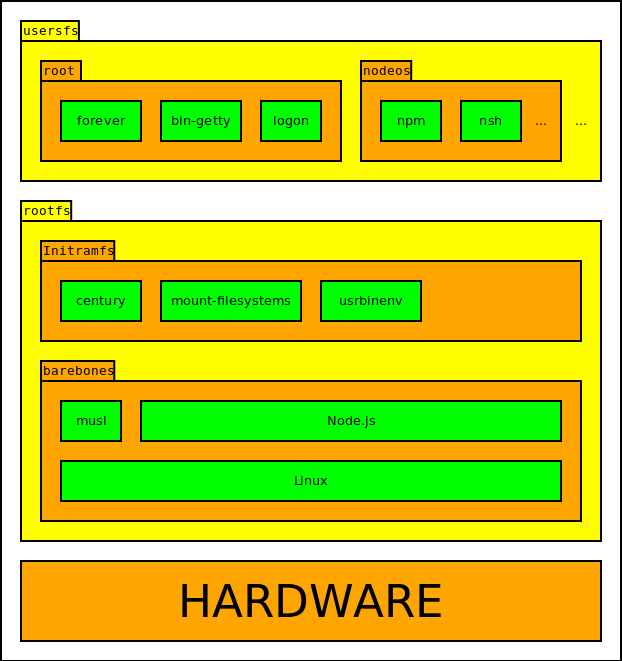
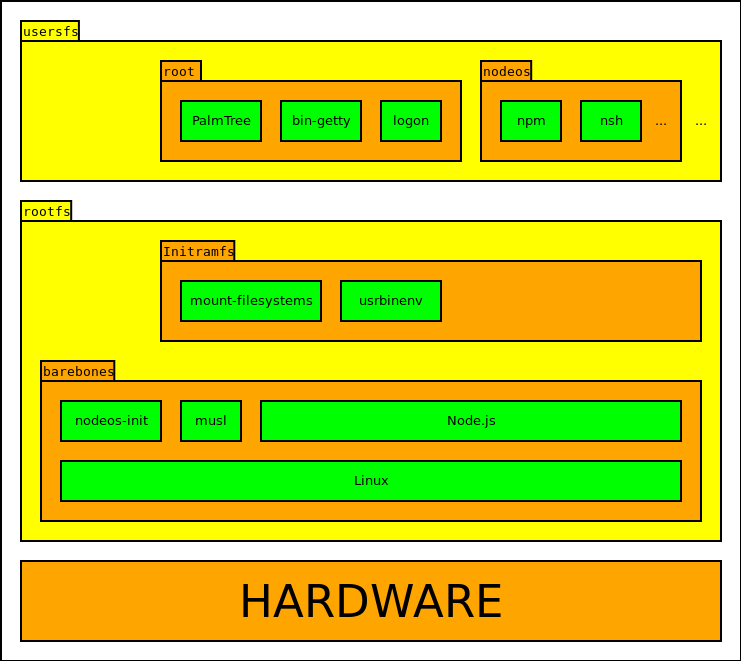
Revisados `especificación` y `diseño`, especialmente interfaz HTML5

diff --git a/5. descripción informática/1. Especificación.md b/5. descripción informática/1. Especificación.md
@@ -4,8 +4,8 @@ La estructura de NodeOS se ha hecho centrándose en los conceptos de simplicidad
 seguridad, fácil comprensión del sistema, eliminación de cualquier elemento
 superfluo no necesario para la ejecución de aplicaciones de Node.js y,
 en su defecto, su sustitución por alternativas escritas en Javascript, en
-algunos casos teniendo que implementarlas desde cero al no haber ninguna hecha
-previamente, como el caso de
+algunos casos teniendo que implementarlas completamente al no haber ningun
+equivalente hecho previamente, como el caso de
 [century](../8. apéndices/1. colaboraciones con proyectos externos/node-century.html)
 y [usrbinenv](3. Implementación/7. módulos propios/usrbinenv.html).
 
@@ -31,28 +31,34 @@ instalación a otro equipo o aislar los problemas debidos a malas configuracione
 
 El uso de estándares web y W3C y de convenciones ya establecidas permite el uso
 de módulos ya existentes y probados, pero igualmente el poder hacer uso de unas
-especificaciones definidas evita cometer errores de diseño que ya
-han sido resueltos con anterioridad y permite sustituir unos módulos por otros
+especificaciones definidas evita cometer errores de diseño que ya han sido
+resueltos con anterioridad y permite sustituir unos módulos por otros
 compatibles o crearlos de forma que sean fácilmente utilizables en otros
-sistemas. Este es el caso del uso del gestor de paquetes npm propio
-de Node.js en lugar de [npkg](http://npkg.org), creado específicamente para
-NodeOS (y ya deprecado), que permite el uso de una herramienta
+sistemas. Este es el caso del uso del gestor de paquetes npm propio de Node.js
+en lugar de [npkg](http://npkg.org), creado específicamente para NodeOS (y que
+actualmente está fuera de uso), que permite el uso de una herramienta
 constantemente en desarrollo, y con un mantenimiento continuado, que además los
-usuarios ya estas acostumbrados a usar, o el uso de un servidor HTTP/WebDAV para
-el acceso a los archivos por parte de las aplicaciones gráficas en lugar de la
-creación de un protocolo propio, permitiendo que pueda accederse a los mismos
-desde otros sistemas operativos o reutilizarse aplicaciones ya existentes sin
-apenas modificaciones.
+usuarios ya estas acostumbrados a usar. Otro ejemplo de la promoción del uso de
+estandares en NodeOS, como se detallará mas adelante, es el uso de un servidor
+HTTP/WebDAV para el acceso a los archivos por parte de las aplicaciones gráficas
+basadas en HTML5 en lugar de la creación de un protocolo propio, permitiendo que
+puedan utilizarse aplicaciones ya existentes para acceder a los mismos, o
+incluso almacenarlos en servidores externos que soporten dicho estandar de forma
+transparente para el usuario.
 
 ### Sistema de archivos raíz único para cada usuario
 
 Una característica de NodeOS que lo distingue de los demás sistemas operativos
 es que cada usuario posee su propio sistema de archivos raíz independiente y
 aislado del resto de usuarios, haciendo un sistema más seguro al hacer que los
-usuarios solo puedan acceder a sus propios archivos. Está en parte
-inspirada en el sistema operativo Plan9 y en cómo trabaja con los namespaces de
-procesos y la unión de directorios (`bind`), pero no se tiene constancia de ningún
-otro sistema con un comportamiento similar al ofrecido por NodeOS.
+usuarios solo puedan acceder a sus propios archivos. Está en parte inspirada en
+el sistema operativo Plan9 y en cómo trabaja con los namespaces de procesos y la
+unión de directorios (`bind`), y a pesar de que se hace uso de tecnologias ya
+existentes previamente como las jaulas `chroot` (al igual que otras relacionadas
+como las jaulas `jail` de BSD o los contenedores LXC) y por tanto podría
+aplicarse la misma técnica en otros sistemas operativos, no se tiene constancia
+de que exista alguno que ofrezca un comportamiento similar por defecto, y
+especialmente combinado con el uso de `OverlayFS`.
 
 Este mecanismo permite que los usuarios tengan una visión más sencilla y
 flexible del sistema, al ofrecerles la apariencia de estar usando un sistema
@@ -60,23 +66,26 @@ operativo mono-usuario (al estilo de como funcionaban
 [MacOS Classic](https://es.wikipedia.org/wiki/Historia_de_Mac_OS) o
 [Windows 9x](https://es.wikipedia.org/wiki/Windows_9x)), donde tienen capacidad
 de modificar y configurarlo todo, sin riesgo de afectar al sistema o a los demás
-usuarios ya que todos sus cambios quedan recluidos en su propio directorio, haciendo que el sistema sea más resiliente y estable. En este sentido,
-no se necesitan permisos de administrador para instalar módulos globalmente ni
-tener que configurar nada para poder hacerlo ya que se pueden utilizar las
-ubicaciones globales que se usan por defecto, estanado usando realmente
-en su lugar el directorio del propio usuario.
+usuarios ya que todos sus cambios quedan recluidos en su propio directorio,
+haciendo que el sistema sea más resiliente y estable. En este sentido, no se
+necesitan permisos de administrador para instalar módulos de Node.js globalmente
+ni tener que configurarlo para poder habilitar esta funcionalidad, ya que se
+pueden utilizar las ubicaciones globales usadas por defecto por Node.js,
+mientras que se están alojando realmente los archivos en el directorio del
+propio usuario.
 
 Esta impresión que se le da al usuario está reforzada por el hecho de que cada
 uno tiene su propio directorio de archivos temporales (su propia instancia del
 sistema de archivos *tmpfs*) y que estos pueden acceder directamente al sistema
 de archivos *procfs* y a los dispositivos del sistema (*devtmpfs*) de forma
-similar a como podría hacer un usuario administrador en un sistema operativo
-Unix tradicional. No obstante, por seguridad y estabilidad dicho acceso esta
-limitado, de forma que en el sistema de archivos *procfs* solo se pueda acceder
-a la información de los procesos del propio usuario, y de forma similar solo se
+similar a como podría hacerlo un usuario administrador en un sistema operativo
+Unix tradicional. No obstante, por seguridad y estabilidad, dicho acceso esta
+limitado, de forma que en el sistema de archivos *procfs* sólo se pueda acceder
+a la información de los procesos del propio usuario, y de forma similar sólo se
 puede acceder a los dispositivos del sistema que no estén siendo usados por otro
-usuario en ese mismo momento mediante el uso del sistema de archivos
-[ExclFS](3. Implementación/7. módulos propios/ExclFS.html).
+usuario en ese mismo momento, esto último gracias al uso del sistema de archivos
+[ExclFS](3. Implementación/7. módulos propios/ExclFS.html) creado específicamente
+para NodeOS y que se explicará su funcionamiento con más detalle más adelante.
 
 ![Sesión de NodeOS mostrando la salida del comando `pstree` y el contenido de `/proc`. Se puede observar que los únicos procesos que se muestran son los correspondientes al usuario. En caso de que hubiera ejecutado algún servicio durante el arranque o que tuviera una sesión gráfica activa, `pstree` mostraría varios arboles de procesos puesto que serian ejecutados por otros procesos propiedad del usuario `root`.](img/Sesión de NodeOS mostrando la salida del comando `pstree` y el contenido de `proc`.png)
 
@@ -85,10 +94,12 @@ usuario en ese mismo momento mediante el uso del sistema de archivos
 En NodeOS no hay usuarios con permisos de administrador, siendo todos usuarios
 normales. El superusuario *root* solo es necesario durante el proceso de
 arranque para inicializar el sistema, montar la partición de los usuarios y
-ejecutar servicios disponibles globalmente como
-[logon](3. Implementación/7. módulos propios/logon.html), no habiendo en el
-sistema ningún otro proceso ejecutandose con permisos de administrador para
-disminuir las posibilidades de que se pueda producir un escalado de privilegios.
+ejecutar servicios disponibles globalmente como la autenticación de los usuarios
+mediante el uso de [logon](3. Implementación/7. módulos propios/logon.html) (el
+cual obtiene la información de acceso del directorio de cada usuario), no
+habiendo en el sistema ningún otro proceso ejecutandose con permisos de
+administrador para disminuir las posibilidades de que se pueda producir un
+escalado de privilegios.
 
 Éste sistema de seguridad puede plantear algunos problemas de administración
 cuando se trata de recursos comunes a todos los usuarios o la ejecución de
@@ -105,12 +116,21 @@ implementarse dicho mecanismo, haciendo que el comportamiento esperado sea que
 Esto obliga a los desarrolladores a que sean conscientes de éste hecho de forma
 que a la hora de diseñar sus programas tomen las medidas adecuadas para
 garantizar de forma conveniente la integridad de sus datos (por ejemplo
-diseñándolas sin estado o para que usen transacciones), lo cual además es acorde
+diseñándolas sin estado, usando transacciones o comprobando la validad de los
+datos en el arranque y la ejecución de la aplicación), lo cual además es acorde
 a la filosofía original del sistema UNIX (del que derivan Linux y OSX) ya que
 [no se hizo para ser apagado](http://www.tldp.org/LDP/intro-linux/html/sect_04_02.html#sect_04_02_06).
 Además, de forma colateral esto repercute haciendo que dichas aplicaciones sean
-mas resilientes incluso cuando se ejecuten sobre Node.js en un sistema operativo
-normal ya que dicho diseño es independiente del sistema donde vaya a ejecutarse.
+mas resilientes incluso cuando se ejecuten en otros sistemas operativos ya que
+dicho diseño es independiente del sistema donde vaya a ejecutarse. De forma
+alternativa, en caso de tener acceso físico a la máquina donde esté ejecutandose
+es posible usar la combinación de teclas `Ctrl+Alt+Del` (empleada por defecto
+por el kernel para reiniciar el sistema), la cual es capturada por
+[nodeos-init](3. Implementación/7. módulos propios/nodeos-init.html) para emitir
+la señal `SIGINT` a todos los procesos de forma que estos puedan terminar de
+forma ordenada y después escribir los datos alojados en la cache de los discos
+duros, garantizando de esta forma la coherencia de los mismos y produciendo un
+apagado limpio del sistema.
 
 ### Simplicidad de uso
 
@@ -145,24 +165,18 @@ NodeOS esta principalmente orientado a servidores en la nube y sistemas
 embebidos, pero suelen aparecer periódicamente dudas y sugerencias al respecto
 de una posible interfaz gráfica, por lo que aunque no este incluida por defecto
 en el sistema básico, si que se ha planteado darle un apoyo oficial a las
-distintas iniciativas.
+distintas iniciativas para guiar el desarrollo uniforme de las mismas.
 
 Para los sistemas embebidos y dedicados puede ser suficiente con el empleo del
 dispositivo de framebuffer de Linux mediante el uso del módulo
 [node-canvas](../8. apéndices/1. colaboraciones con proyectos externos/node-canvas.html),
 pero para la creación de interfaces mas complejas como es la creación de un
-entorno de escritorio, la solución obvia es el uso de HTML5 y tecnologías web
+entorno de escritorio, la solución obvia es el uso de HTML5. La incorporación de
+esta última no está completamente testeada y se ha planteado como una
+[futura mejora](../6. conclusiones/3. Posibles trabajos futuros.html), pero sí
+se han implementado algunos de los componentes necesarios para la misma y ya
+estan incluidos en el sistema. En este sentido, se hace uso de tecnologías web
 como son [WebDAV](http://www.webdav.org) para el acceso a los archivos o
 [WebSockets](https://tools.ietf.org/html/rfc6455) para las shell interactivas y
 la actualización de datos en la interfaz gráfica en tiempo real, tal y como
-proponen algunos frameworks web como [Meteor](https://www.meteor.com). En este
-sentido, se ha propuesto el que se aisle completamente la interfaz gráfica de
-las APIs ofrecidas por Node.js usándose un servidor web *ad-hoc* en caso de
-tener que hacer uso de estas, a diferencia de otras alternativas similares como
-[nw.js](http://nwjs.io) o [electron](http://electron.atom.io) (usado internamente
-por el editor [Atom](https://atom.io)), o el diseño de una API propia. De esta forma, no solo
-permite que se pueda ejecutar dicha interfaz gráfica en cualquier navegador web
-estándar permitiendo que pueda ser usada tanto en local como en remoto de forma
-transparente, sino que además reduce el consumo de recursos en el servidor al
-promover que se realicen todas las operaciones que sean posibles en el lado del
-cliente.
+proponen algunos frameworks web como [Meteor](https://www.meteor.com).

diff --git a/5. descripción informática/2. Diseño.md b/5. descripción informática/2. Diseño.md
@@ -8,19 +8,38 @@ El sistema esta organizado en capas, correspondiente cada una de ellas a un
 módulo npm independiente siguiendo la filosofía de diseño modular que promueve
 la comunidad de Node.js, y su división sigue el diseño de la organización
 original del proyecto basada en la arquitectura de contenedores de Docker, a la
-cual he revisado el ámbito correspondiente a cada una. Dichas capas son:
+cual se ha revisado el ámbito correspondiente a cada una. Dichas capas son:
 
 * [barebones](3. Implementación/2. barebones.html), encargada de un arranque
-  mínimo del sistema, mostrando directamente el interprete REPL de Node.js.
+  mínimo del sistema, mostrando directamente el interprete REPL de Node.js. Está
+  formada solamente por el kernel de Linux, al que se le ha añadido un `initrd`
+  que será usado posteriormente como sistema de archivos raíz común para todos
+  los usuarios y que contiene a `musl` como libreria C estandar del sistema,
+  [nodeos-init](3. Implementación/7. módulos propios/nodeos-init.html) para
+  gestionar los procesos zombie y el apagado correcto de la máquina y el montaje
+  del sistema de archivos *devtmpfs*, y el binario ejecutable de Node.js.
 * [initramfs](3. Implementación/3. initramfs.html), monta la partición con los
   directorios de los usuarios y ejecuta una preparación previa del sistema.
+  Consiste en un archivo `initramfs` independiente (a diferencia del `initrd`
+  incluido en el kernel de Linux) que contiene los módulos
+  [nodeos-mount-filesystems](3. Implementación/7. módulos propios/nodeos-mount-filesystems.html)
+  y [usrbinenv](3. Implementación/7. módulos propios/usrbinenv.html), este
+  último proporcionando una implementación en Javascript del ejecutable
+  `/usr/bin/env`, empleado habitualmente en el *shebang* de los scripts
+  ejecutables para indicar el programa interprete que puede procesarlos.
 * [rootfs](3. Implementación/4. rootfs.html), genera una partición de arranque
   de solo-lectura con el contenido de las dos capas anteriores según para que
   plataforma se este generando, de forma que después pueda grabarse en un disco
   o pendrive que puedan ser usados para arrancar el sistema de forma autónoma en
   hardware real como PCs o el micro-ordenador Raspberry Pi.
 * [usersfs](3. Implementación/5. usersfs.html), ejemplo de partición con los
-  directorios de los usuarios, incluido un usuario administrador *root*.
+  directorios de los usuarios, incluido un usuario administrador *root*. Para
+  permitir la autenticación del usuario de ejemplo *nodeos*, el usuario *root*
+  incluye el gestor de tareas [PalmTree](https://github.com/lite20/palmtree), el
+  cual controla el ciclo de vida del gestor de terminales
+  [bin-getty](../8. apéndices/1. colaboraciones con proyectos externos/node-bin-getty.html),
+  y el módulo [logon](3. Implementación/7. módulos propios/logon.html) encargado
+  de la autenticación distribuida de los usuarios.
 
 Cada capa es autónoma en si misma pudiendo ejecutarse independientemente y se
 apoya en las anteriores para ofrecer su funcionalidad. Por ejemplo, usando la
@@ -60,20 +79,22 @@ estén en distintos proyectos y que los problemas relativos a npm estén resuelt
 cuando se adapte el sistema a npm 3, al incorporar la instalación multi-etapa y
 usa una jerarquía de dependencias máximamente plana. También se plantea dividir
 dichos módulos en otros mas enfocados, como son el binario de Node.js o el
-kernel de Linux o incluso la posibilidad de que los módulos instalados por los
+kernel de Linux, o incluso la posibilidad de que los módulos instalados por los
 usuarios dentro de su directorio puedan también ser considerados dependencias de
-cara a una posterior instalación de estos en el mismo o en otro sistema.
+cara a una posterior re-instalación de estos en el mismo o en otro sistema.
 
 Aparte de los módulos correspondientes a cada una de las capas del sistema,
-también se ha hecho un módulo especifico para la generación del cross-compiler,
+también se ha hecho un módulo específico para la generación del cross-compiler,
 de forma que éste también este integrado dentro del ciclo de vida de npm y la
-compilación de los distintos médulas sea independiente del sistema subyacente, y
-también se ha hecho que el propio sistema este definido como un paquete npm,
+compilación de los distintos módulos sea independiente del sistema subyacente.
+También se ha hecho que el propio sistema este definido como un paquete npm,
 aunque al delegar toda su funcionalidad a los módulos de cada una de las capas
-del sistema o a módulos externos su funcionalidad es mínima y se reduce a
-recolectar los productos generados por las distintas capas para permitir su
-ejecución con QEmu, y según la plataforma para la que se este generando crear
-una imagen de disco o un archivo zip para su publicación. Este módulo esta
+del sistema (o a módulos externos) su funcionalidad es mínima y se reduce a
+recolectar los componentes generados por cada una de las distintas capas y poder
+ejecutarlas con QEmu, y según la plataforma para la que se este generando además
+crear una imagen de disco o un archivo zip para su publicación.
+
+El paquete que engloba el proceso completo de construcción de NodeOS esta
 definido como [privado](https://docs.npmjs.com/files/package.json#private) para
 evitar su publicación en el registro npm al no tener librerías o componentes
 directamente consumibles por otros módulos, ya que la forma de uso esperada es
@@ -82,7 +103,7 @@ partir de él, y que las versiones personalizadas o derivabas de NodeOS
 ("[sabores](../../6. conclusiones/2. Posibles trabajos futuros.html#"Sabores")")
 se creen mediante forks de este proyecto principal, como ocurre en el caso de
 [whale](https://github.com/bash/whale). Esto está facilitado precisamente por la
-filosofía modular de Node.js, ya que permite que este módulo principal sea
+filosofía modular de Node.js, ya que permite que este paquete principal sea
 mínimo y las personalizaciones se reduzcan a definir sus dependencias en otros
 paquetes alternativos, lo cual además facilita que haya una gran cantidad de
 paquetes comunes en todos ellos haciendo todas las versiones derivadas uniformes
@@ -91,7 +112,7 @@ y compatibles entre si.
 Además, al estar basada la administración en npm, hace que el sistema sea muy
 modular y personalizable y se puedan testear cada uno de sus componentes por
 separado aumentando la fiabilidad del sistema, y además se dispone de acceso a
-los mas de 230.000 paquetes disponibles actualmente, siendo compatible con
+los mas de 270.000 paquetes disponibles actualmente, siendo compatible con
 cualquier otro sistema operativo donde pueda ejecutarse Node.js.
 
 ### Sistema de archivos raíz único para cada usuario
@@ -125,13 +146,13 @@ para hacer mas simple la perdida de privilegios de la jaula y del proceso final
 a ejecutar, ya que chroot requiere ser invocado con permisos de administrador.
 Los pasos empleados para el mismo (con algunas variaciones) han sido:
 
-1. inicio del proceso intermedio indicando el comando final con sus argumentos
+1. Inicio del proceso intermedio indicando el comando final con sus argumentos
    y el `UID` y `GID` con que debe de ser ejecutado finalmente.
-2. creación de la jaula chroot e introducirse en ella.
-3. disminuir los permisos del proceso cambiando explícitamente tanto su `UID`
+2. Creación de la jaula chroot e introducirse en ella.
+3. Disminuir los permisos del proceso cambiando explícitamente tanto su `UID`
    como el `GID` efectivos.
-4. ejecutar el comando deseado con sus argumentos.
-5. terminar el proceso intermedio.
+4. Ejecutar el comando deseado con sus argumentos.
+5. Terminar el proceso intermedio.
 
 De este modo, el comando se ejecuta estando ya dentro de la jaula chroot y con
 sus permisos disminuidos, por lo que no se depende de que este haga dicha tarea
@@ -147,8 +168,8 @@ otros lenguajes interpretados).
 
 Mediante esta técnica, se genera una jerarquía de archivos uniforme donde a
 efectos prácticos el directorio del usuario es la raíz del sistema. Esto se
-manifiesta por ejemplo cuando el usuario instala paquetes npm globalmente, para
-lo cual no requiere permisos de administrador a diferencia de en sistemas
+manifiesta, por ejemplo, cuando el usuario instala paquetes npm globalmente,
+para lo cual no requiere permisos de administrador a diferencia de en sistemas
 normales. Esto mismo también podría conseguirse mediante el uso de la variable
 de entorno `npm_config_prefix`, pero en este caso puede funcionar con la
 configuración por defecto sin afectar a los demás usuarios.
@@ -162,22 +183,30 @@ transparente accesibles en cualquier momento desde Internet.
 
 ### Interfaz gráfica basada en HTML5
 
-Para poder acceder a la interfaz gráfica proporcionada por cada usuario desde
-Internet sin requerir del uso de un servidor web con acceso global ni que este
-corriendo permanentemente un servidor web para cada uno de los usuarios se han
-desarrollado los módulos [oneshoot](https://github.com/piranna/oneshoot) y
-[nodeos-reverse-proxy](https://github.com/piranna/nodeos-reverse-proxy), los
-cuales permiten respectivamente crear servidores web y de WebSockets que se
-terminan automáticamente cuando no hay mas conexiones abiertas a los mismos, y
-el hacer uso de las credenciales proporcionadas mediante
-[HTTP Basic Auth](https://tools.ietf.org/html/rfc2617) (haciendo uso del módulo
+NodeOS propone que las aplicaciones gráficas utilicen una interfaz basada en
+HTML5. Esta última no está completamente terminada y se ha planteado como una
+futura mejora, aparte de que por arquitectura será implementada como un proyecto
+independiente, pero sí se han implementado algunos de los componentes necesarios
+para la misma debido a que permiten ser utilizados mas alla de solamente en las
+aplicaciones gráficas, y por tanto ya estan incorporados en el sistema.
+
+Para poder acceder a la interfaz gráfica proporcionada por cada usuario o a los
+archivos pertencientes al mismo desde Internet sin requerir del uso de un
+servidor web con acceso global ni que este corriendo permanentemente un servidor
+web para cada uno de los usuarios se han desarrollado los módulos
+[nodeos-reverse-proxy](https://github.com/piranna/nodeos-reverse-proxy) y
+[oneshoot](https://github.com/piranna/oneshoot), los cuales permiten
+respectivamente hacer uso de las credenciales proporcionadas mediante
+[HTTP Basic Auth](https://tools.ietf.org/html/rfc2617) (mediante el módulo
 [logon](3. Implementación/7. módulos propios/logon.html) para el control de
 acceso) para redirigir las peticiones al servidor web propio de cada usuario,
 ejecutándolo con los permisos del mismo en caso de que no esté corriendo ninguno
-en ese momento. Además, también puede ejecutar los servidores de backend propios
-de cada una de las aplicaciones gráficas que los necesiten, identificándolos
-mediante el uso del nombre de su módulo o de su ruta completa entre brackets
-(`[` y `]`) como primer componente de su ruta. Por ejemplo, ante la petición
+en ese momento, y el crear servidores web que se terminen automáticamente cuando
+no hay mas conexiones abiertas a los mismos. Además, también puede ejecutar los
+servidores de backend propios de cada una de las aplicaciones gráficas que los
+necesiten, identificándolos mediante el uso del nombre de su módulo o de su ruta
+completa entre brackets (`[` y `]`) como primer componente de su ruta. Por
+ejemplo, ante la petición
 
 ```url
 ws://nodeos@nodeos:12.34.56.78/[steam]/games/hl3

diff --git a/6. conclusiones/3. Posibles trabajos futuros.md b/6. conclusiones/3. Posibles trabajos futuros.md
@@ -177,14 +177,23 @@ para las aplicaciones gráficas.
 
 Respecto a las aplicaciones gráficas basadas en una interfaz HTML, se pretende
 que en el desarrollo de estas se mantenga una arquitectura cliente-servidor
-donde la interfaz esté aislada y no se permita acceder directamente a las APIs y
-librerías de Node.js como si permiten otros entornos como [NW.js](http://nwjs.io)
-o [electron](http://electron.atom.io). Este diseño provoca que el motor HTML
-actúe simplemente como un visor sin funcionalidad extra respecto a la de un
-navegador web normal, facilitando su mantenimiento y portabilidad, pero también
+donde la interfaz esté aislada completamente y no se permita acceder de forma
+directa a las APIs y librerías de Node.js, usándose un servidor web *ad-hoc* en
+caso de tener que hacer uso de estas, a diferencia otros entornos que si lo
+permiten como son [NW.js](http://nwjs.io) o [electron](http://electron.atom.io)
+(este último usado internamente por el editor [Atom](https://atom.io)), o
+mediante el diseño de una API propia para acceder a los recursos del sistema
+como hacen `ChromeOS` y `FirefoxOS`. Este diseño hace que el motor HTML actúe
+simplemente como un visor sin funcionalidad extra respecto a la de un navegador
+web normal, facilitando su mantenimiento y portabilidad, pero también
 garantizando la compatibilidad de las aplicaciones web actuales en NodeOS, y
 también que las aplicaciones gráficas desarrolladas específicamente para NodeOS
-puedan usarse remotamente desde cualquier navegador web.
+puedan usarse remotamente desde cualquier navegador web, además de permitir que
+se pueda ejecutar dicha interfaz gráfica en cualquier navegador web estándar
+haciendo que pueda ser usada tanto de forma local como en remoto de forma
+transparente, y reduciendo el consumo de recursos en el servidor al promover que
+se realicen todas las operaciones que sean posibles en el lado del cliente.
+
 
 #### Añadir soporte de múltiples framebuffers al kernel de Linux
 
